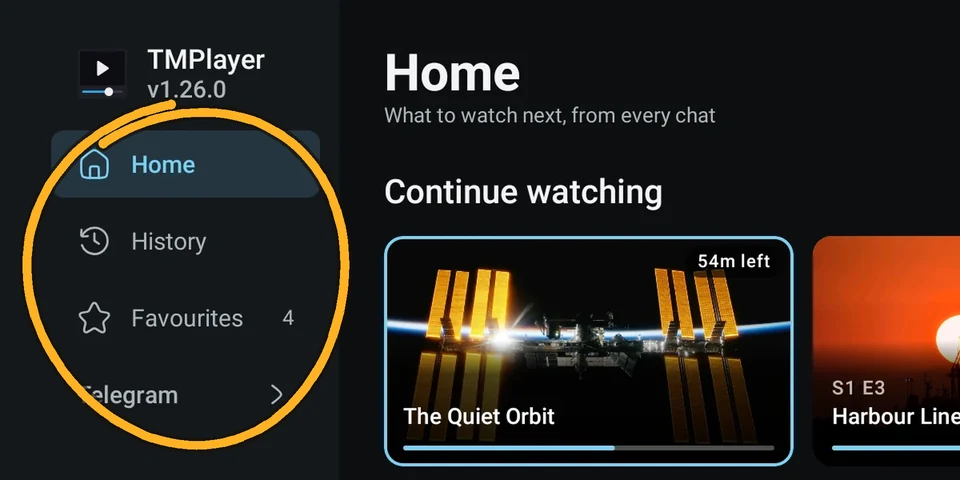
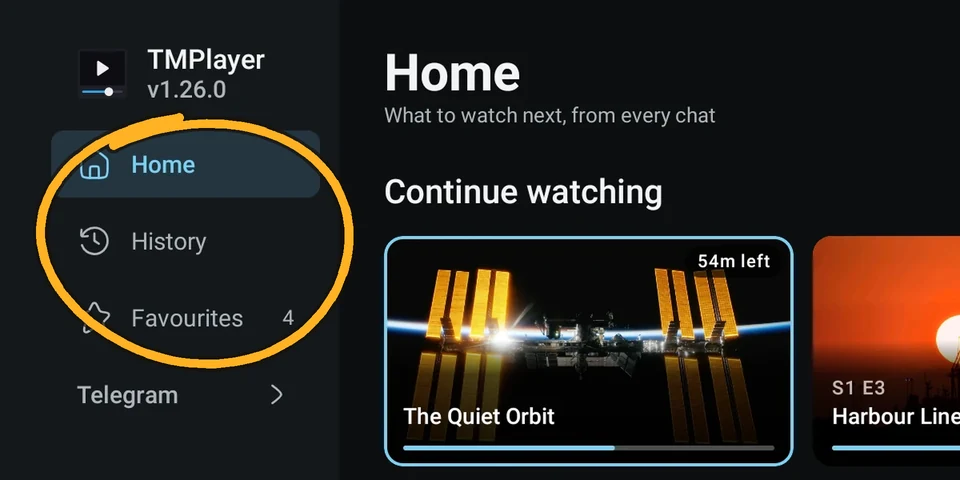
site: the rail shot's circle leaves Telegram's label clear; promo: the course's lessons wear its demo frame on the home screen cards

Changed region(s): [[0.0, 0.1875, 0.375, 0.9375]]

diff --git a/app/src/promo/java/com/tmplayer/PromoCaptureActivity.kt b/app/src/promo/java/com/tmplayer/PromoCaptureActivity.kt
@@ -876,11 +876,16 @@ private fun ComponentActivity.promoChannels() {
     val context = applicationContext
     val library = PromoMeta.library
     // The demo videos' pictures are this build's drawables, not Telegram thumbnails: each card's
-    // picture is written out from the video's own frame, found by its name.
+    // picture is written out from the video's own frame, found by its name. The course's lessons
+    // carry none in the library (the in-app tiles show the generated cover), but a real upload's
+    // thumbnail is what the launcher would get, so they wear the course's demo frame here.
     val frames = java.io.File(context.cacheDir, "promo-channel-art").apply { mkdirs() }
     com.tmplayer.data.TvChannelsPublisher.fixtureArt = { art ->
-        library.all.firstOrNull { it.nameForParsing == art.name && it.caption == art.caption }?.miniThumbnail?.let { bytes ->
-            java.io.File(frames, "${art.key.hashCode().toUInt()}.jpg").apply { if (!isFile) writeBytes(bytes) }
+        val item = library.all.firstOrNull { it.nameForParsing == art.name && it.caption == art.caption }
+        val bytes = item?.miniThumbnail
+            ?: item?.takeIf { it.chatId == PromoCatalog.STUDY }?.let { PromoMeta.pictures.bytes("demo_tutorial") }
+        bytes?.let {
+            java.io.File(frames, "${art.key.hashCode().toUInt()}.jpg").apply { if (!isFile) writeBytes(it) }
         }
     }
     Thread {
